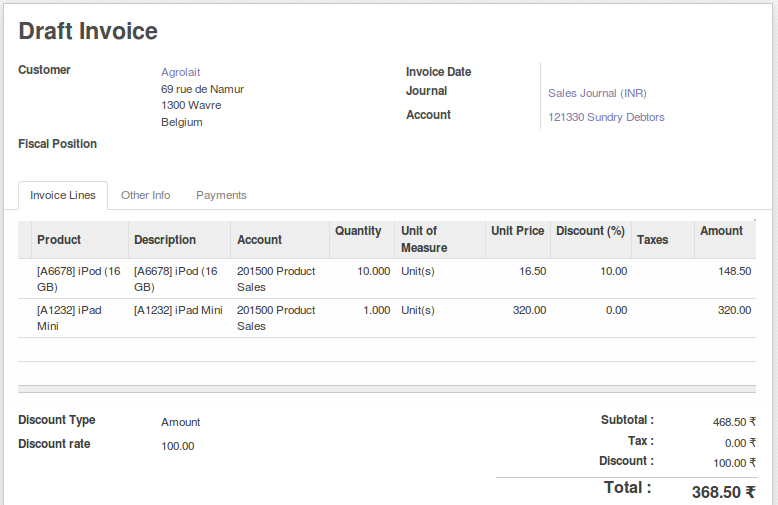
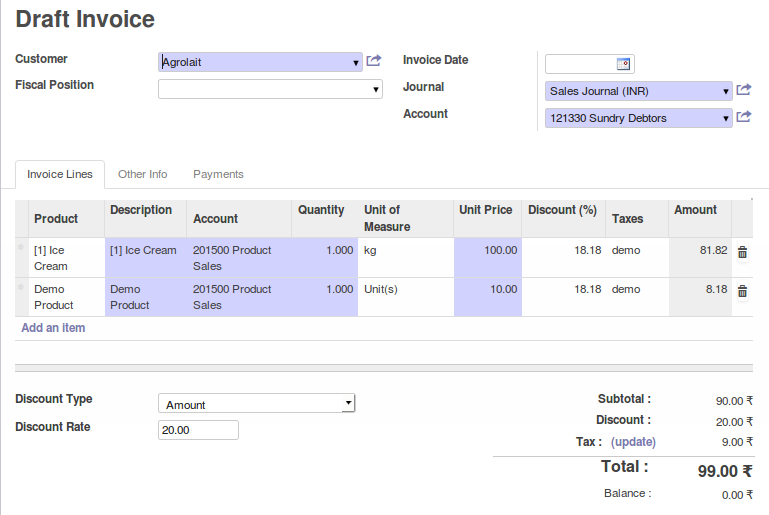
Updated

diff --git a/sale_discount_total/models/account_invoice.py b/sale_discount_total/models/account_invoice.py
@@ -9,13 +9,14 @@ class AccountInvoice(models.Model):
     @api.one
     @api.depends('invoice_line.price_subtotal', 'tax_line.amount')
     def _compute_amount(self):
+        disc = 0.0
+        for inv in self:
+            for line in inv.invoice_line:
+               disc += (line.quantity * line.price_unit) * line.discount / 100
         self.amount_untaxed = sum(line.price_subtotal for line in self.invoice_line)
         self.amount_tax = sum(line.amount for line in self.tax_line)
-        if self.discount_type == 'percent':
-            self.amount_discount = ((self.amount_untaxed + self.amount_tax) * self.discount_rate) / 100
-        elif self.discount_type == 'amount':
-            self.amount_discount = self.discount_rate
-        self.amount_total = self.amount_untaxed + self.amount_tax - self.amount_discount
+        self.amount_discount = round(disc)
+        self.amount_total = round(self.amount_untaxed + self.amount_tax)
 
     discount_type = fields.Selection([('percent', 'Percentage'), ('amount', 'Amount')], 'Discount Type', readonly=True,
                                      states={'draft': [('readonly', False)]})
@@ -30,23 +31,38 @@ class AccountInvoice(models.Model):
     amount_total = fields.Float(string='Total', digits=dp.get_precision('Account'),
                                 readonly=True, compute='_compute_amount')
 
+    @api.multi
+    def compute_discount(self, discount):
+        print "^^^^^^^^^^^^^^^^^^^^^compute_discount"
+        for inv in self:
+            val1 = val2 = 0.0
+            disc_amnt = 0.0
+            val2 = sum(line.amount for line in self.tax_line)
+            for line in inv.invoice_line:
+                val1 += (line.quantity * line.price_unit)
+                line.discount = discount
+                disc_amnt += (line.quantity * line.price_unit) * discount / 100
+            total = val1 + val2 - disc_amnt
+            self.amount_discount = round(disc_amnt)
+            self.amount_tax = round(val2)
+            self.amount_total = round(total)
+
     @api.onchange('discount_type', 'discount_rate')
-    def compute_discount(self):
+    def supply_rate(self):
         for inv in self:
             amount = sum(line.price_subtotal for line in self.invoice_line)
             tax = sum(line.amount for line in self.tax_line)
             if inv.discount_type == 'percent':
-                if inv.discount_rate == 100:
-                    disc_amnt = amount + tax
-                else:
-                    disc_amnt = (amount + tax) * inv.discount_rate / 100
-                total = amount + tax - disc_amnt
-                self.amount_discount = disc_amnt
-                self.amount_total = total
+                self.compute_discount(inv.discount_rate)
             else:
-                total = (amount + tax) - inv.discount_rate
-                self.amount_discount = inv.discount_rate
-                self.amount_total = total
+                total = 0.0
+                discount = 0.0
+                for line in inv.invoice_line:
+                    total += (line.quantity * line.price_unit)
+                if inv.discount_rate != 0:
+                    discount = (inv.discount_rate / total) * 100
+                self.compute_discount(discount)
+
 
     @api.model
     def _prepare_refund(self, invoice, date=None, period_id=None, description=None, journal_id=None):
@@ -58,31 +74,3 @@ class AccountInvoice(models.Model):
         })
         return res
 
-
-class invoice_line(osv.Model):
-    _inherit = 'account.invoice.line'
-
-    def move_line_get(self, cr, uid, invoice_id, context=None):
-        res = super(invoice_line, self).move_line_get(cr, uid, invoice_id, context=context)
-        inv = self.pool.get('account.invoice').browse(cr, uid, invoice_id, context=context)
-
-        if inv.type in ('out_invoice', 'out_refund') and inv.discount_type:
-            prop = self.pool.get('ir.property').get(cr, uid, 'property_account_income_categ', 'product.category',
-                                                    context=context)
-            prop_id = prop and prop.id or False
-            account_id = self.pool.get('account.fiscal.position').map_account(cr, uid, inv.fiscal_position or False,
-                                                                              prop_id)
-            sign = -1
-
-            res.append({
-                'name': 'Discount',
-                'price_unit': sign * inv.amount_discount,
-                'quantity': 1,
-                'price': sign * inv.amount_discount,
-                'account_id': account_id,
-                'product_id': False,
-                'uos_id': False,
-                'account_analytic_id': False,
-                'taxes': False,
-            })
-        return res

diff --git a/sale_discount_total/models/sale.py b/sale_discount_total/models/sale.py
@@ -6,9 +6,11 @@ import openerp.addons.decimal_precision as dp
 class SaleOrder(osv.Model):
     _inherit = 'sale.order'
 
+
     def _amount_all(self, cr, uid, ids, field_name, arg, context=None):
         cur_obj = self.pool.get('res.currency')
         res = {}
+        print "_amount_all"
         for order in self.browse(cr, uid, ids, context=context):
             res[order.id] = {
                 'amount_untaxed': 0.0,
@@ -16,21 +18,17 @@ class SaleOrder(osv.Model):
                 'amount_tax': 0.0,
                 'amount_total': 0.0,
             }
-            val = val1 = val2 = 0.0
             cur = order.pricelist_id.currency_id
+            val1 = val2 = val3 = 0.0
             for line in order.order_line:
                 val1 += line.price_subtotal
-                val += self._amount_line_tax(cr, uid, line, context=context)
-            if order.discount_type == 'amount':
-                val2 = order.discount_rate
-            elif order.discount_type == 'percent':
-                val2 = ((val1 + val) * order.discount_rate) / 100
-            res[order.id]['amount_tax'] = cur_obj.round(cr, uid, cur, val)
-            res[order.id]['amount_untaxed'] = cur_obj.round(cr, uid, cur, val1)
-            res[order.id]['amount_discount'] = cur_obj.round(cr, uid, cur, val2)
-            res[order.id]['amount_total'] = res[order.id]['amount_untaxed'] + res[order.id]['amount_tax'] - \
-                                            res[order.id]['amount_discount']
-        return res
+                val2 += self._amount_line_tax(cr, uid, line, context=context)
+                val3 += (line.product_uom_qty * line.price_unit) * line.discount / 100
+            total = val1 + val2
+            res[order.id]['amount_untaxed'] = round(cur_obj.round(cr, uid, cur, val1))
+            res[order.id]['amount_tax'] = round(cur_obj.round(cr, uid, cur, val2))
+            res[order.id]['amount_discount'] = round(cur_obj.round(cr, uid, cur, val3))
+            res[order.id]['amount_total'] = round(cur_obj.round(cr, uid, cur, total))
 
     def _get_order(self, cr, uid, ids, context=None):
         result = {}
@@ -60,27 +58,33 @@ class SaleOrder(osv.Model):
         'discount_type': 'percent',
     }
 
-    @api.onchange('discount_type', 'discount_rate')
-    def compute_discount(self):
+    @api.multi
+    def compute_discount(self, discount):
         for order in self:
             val1 = val2 = 0.0
+            disc_amnt = 0.0
             for line in order.order_line:
-                val1 += line.price_subtotal
+                val1 += (line.product_uom_qty * line.price_unit)
+                line.discount = discount
                 val2 += self._amount_line_tax(line)
+                disc_amnt += (line.product_uom_qty * line.price_unit * line.discount)/100
+            total = val1 + val2 - disc_amnt
+            self.currency_id = order.pricelist_id.currency_id
+            self.amount_discount = round(disc_amnt)
+            self.amount_tax = round(val2)
+            self.amount_total = round(total)
+
+    @api.onchange('discount_type', 'discount_rate')
+    def supply_rate(self):
+        for order in self:
             if order.discount_type == 'percent':
-                if order.discount_rate == 100:
-                    disc_amnt = val1 + val2
-                else:
-                    disc_amnt = (val1 + val2) * order.discount_rate / 100
-                total = val1 + val2 - disc_amnt
-                self.currency_id = order.pricelist_id.currency_id
-                self.amount_discount = disc_amnt
-                self.amount_total = total
+                self.compute_discount(order.discount_rate)
             else:
-                total = (val1 + val2) - order.discount_rate
-                self.currency_id = order.pricelist_id.currency_id
-                self.amount_discount = order.discount_rate
-                self.amount_total = total
+                total = 0.0
+                for line in order.order_line:
+                    total += (line.product_uom_qty * line.price_unit)
+                discount = (order.discount_rate / total) * 100
+                self.compute_discount(discount)
 
     def _prepare_invoice(self, cr, uid, order, lines, context=None):
         invoice_vals = super(SaleOrder, self)._prepare_invoice(cr, uid, order, lines, context=context)
